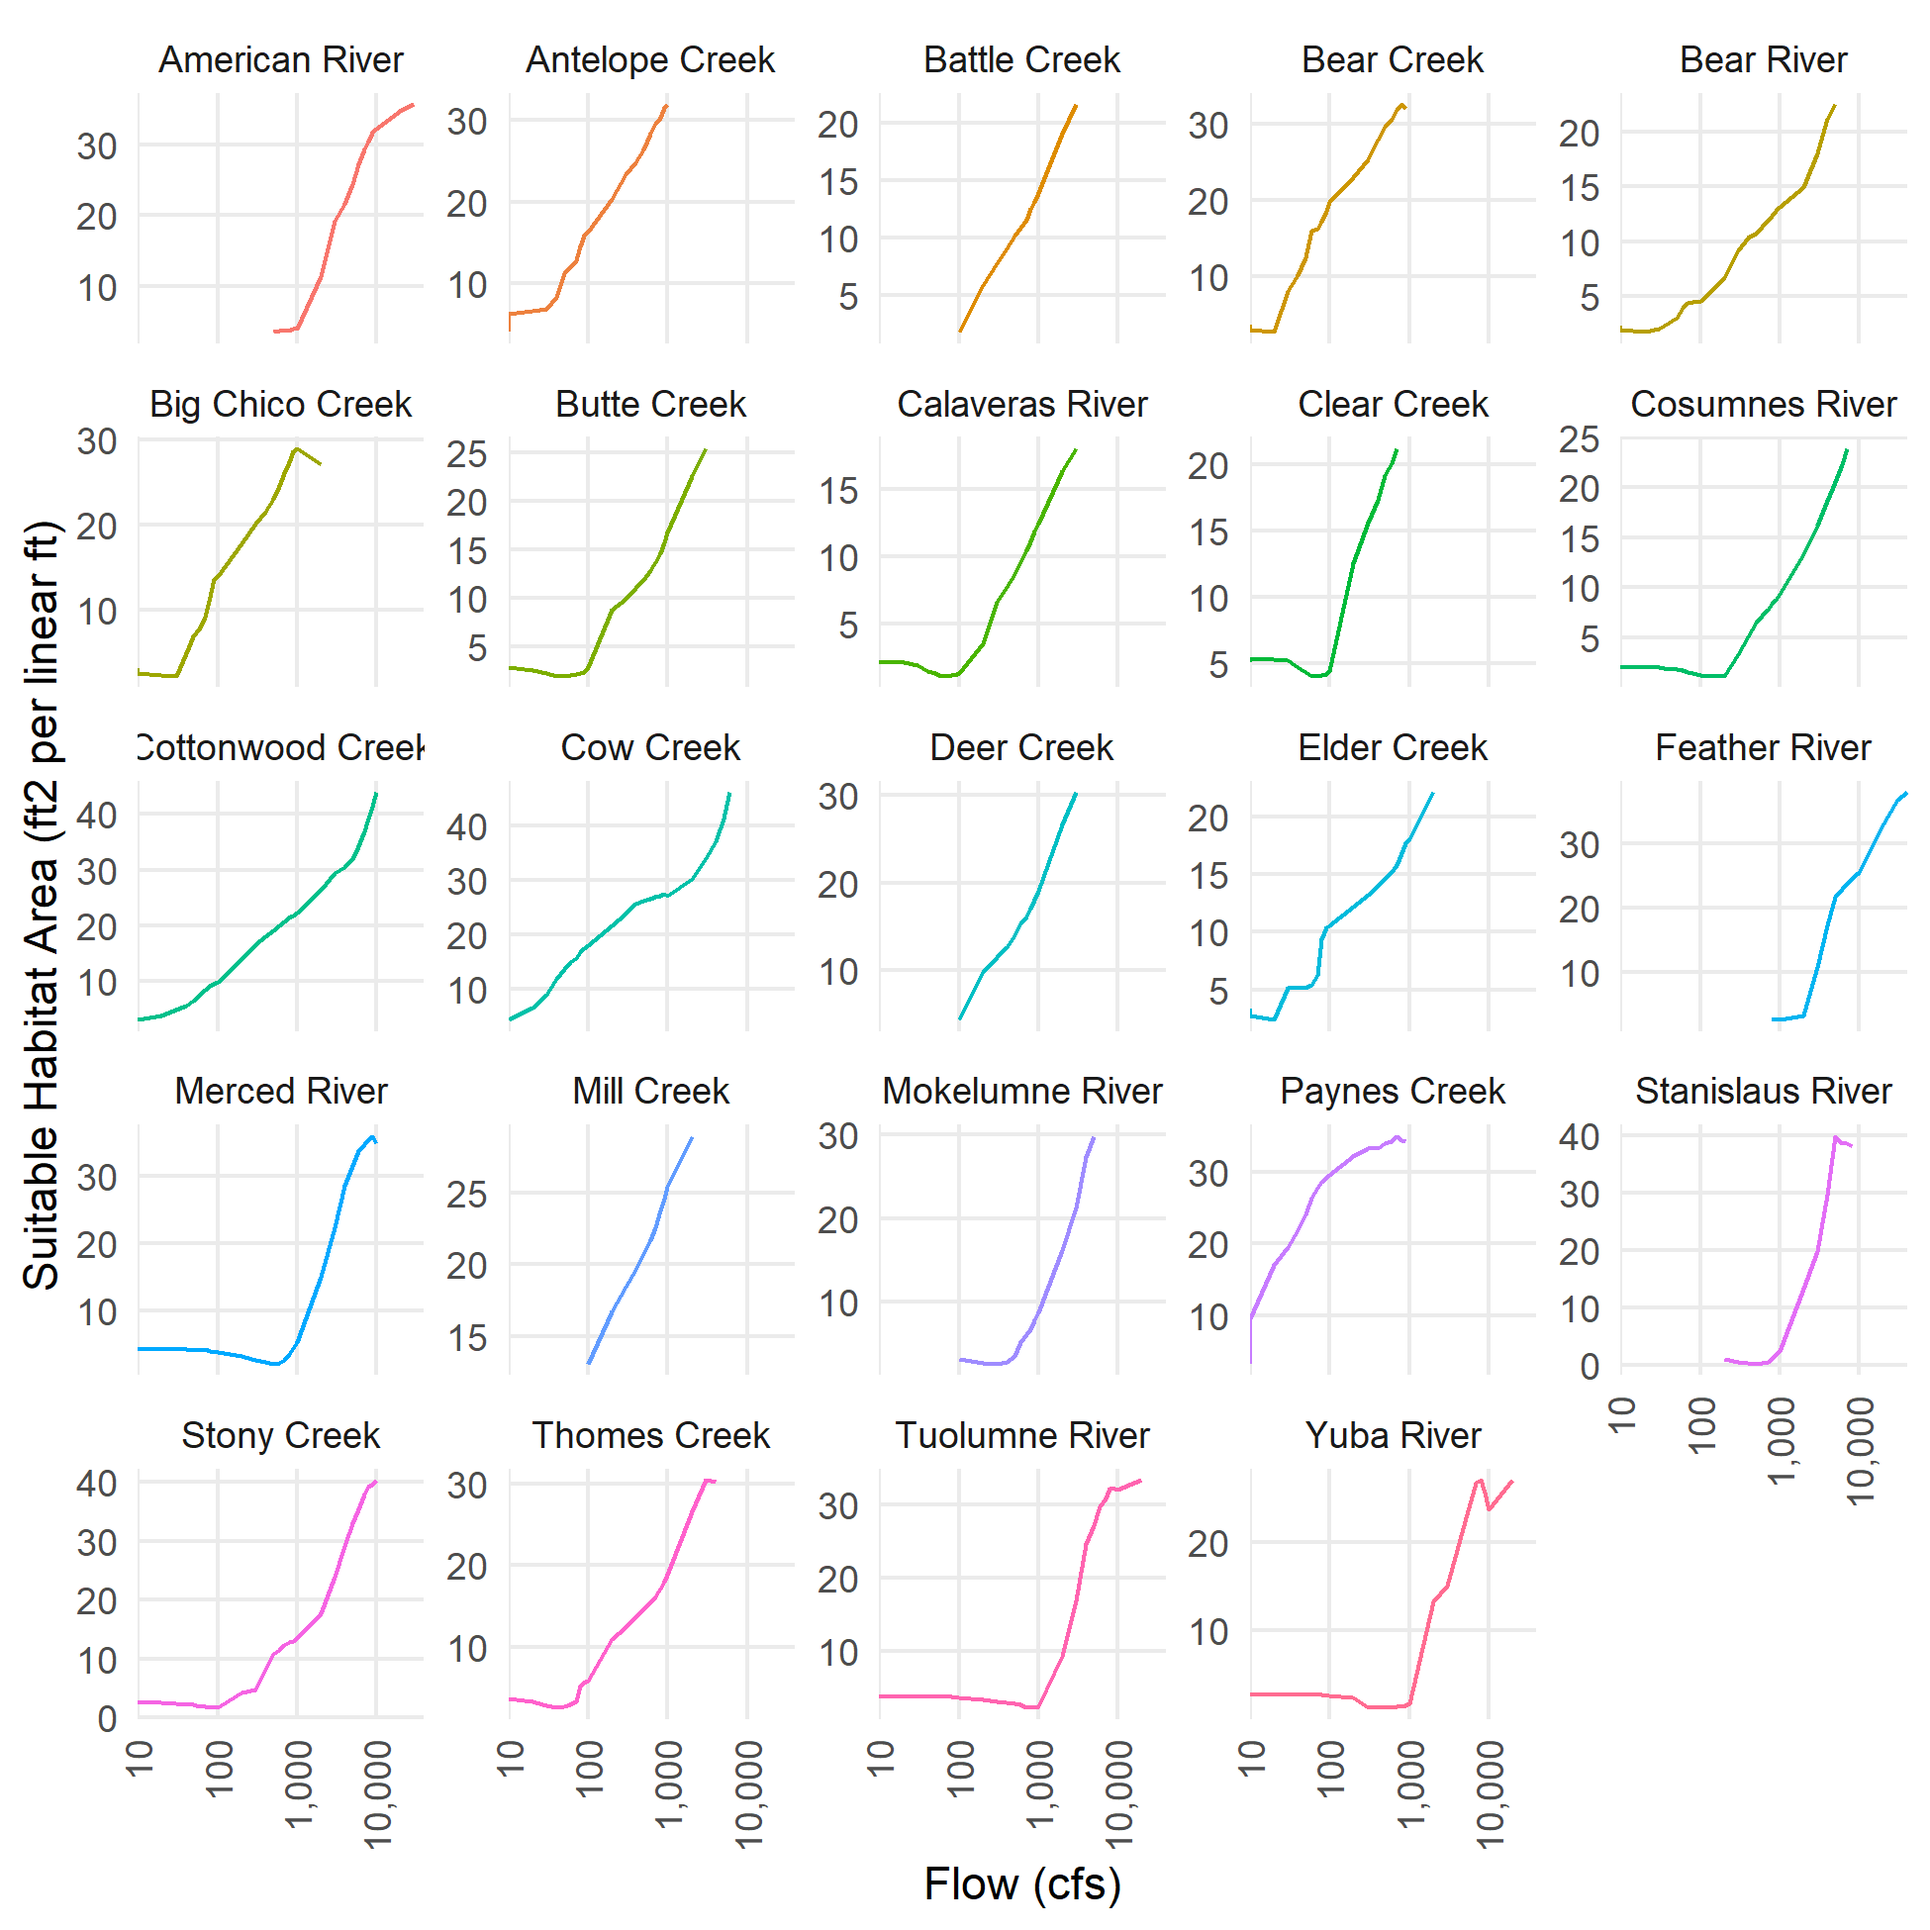
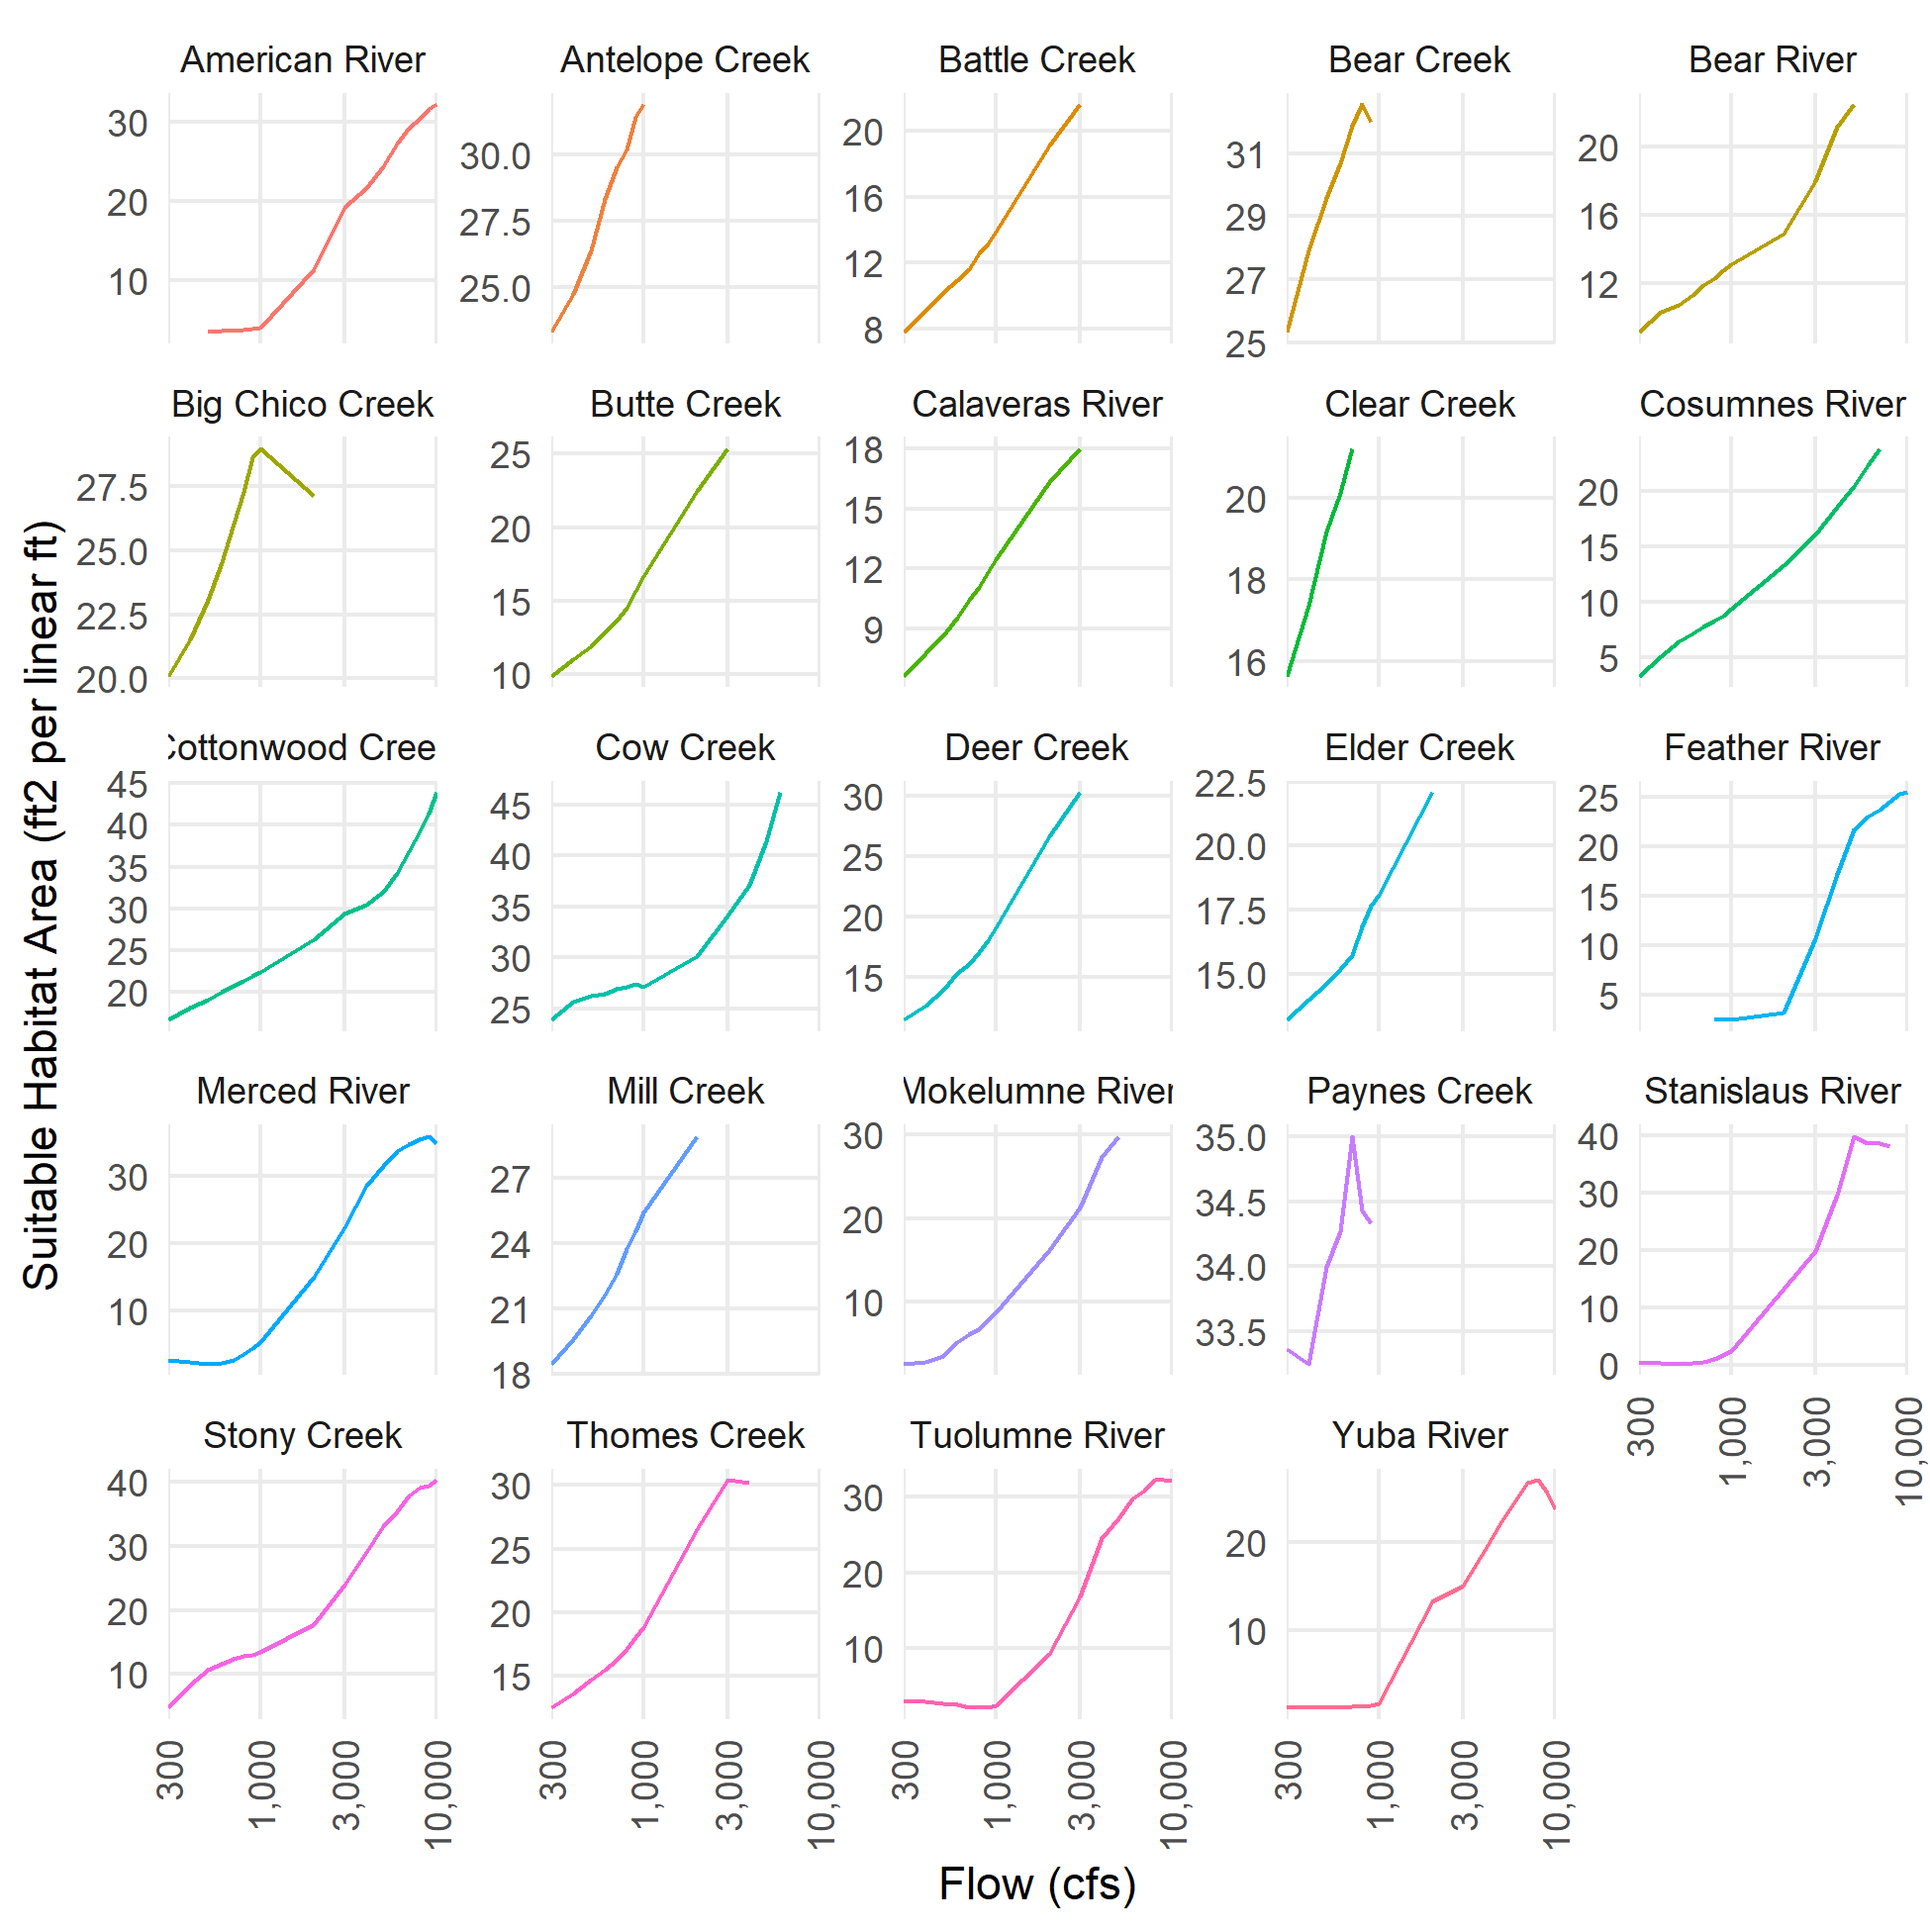
fix prediction ranges on graphs

diff --git a/data-raw/scripts/model-expl.md b/data-raw/scripts/model-expl.md
@@ -1,7 +1,7 @@
 Statistical Modeling to Predict Flow-to-Suitable-Area Curves
 ================
 [Skyler Lewis](mailto:slewis@flowwest.com)
-2024-04-25
+2024-05-07
 
 - [Import and Preprocess Training
   Data](#import-and-preprocess-training-data)
@@ -1900,10 +1900,11 @@ prediction_flows <- readRDS(here::here("data-raw", "results", "watershed_flow_su
   mutate(flow_cfs = map2(min_cfs, max_cfs, function(x, y) oom_range(x, y))) |>
   select(watershed, flow_cfs) |>
   unnest(flow_cfs) |>
+  filter(flow_cfs >= min(interp_flows) & flow_cfs <= max(interp_flows)) |>
   glimpse()
 ```
 
-    ## Rows: 587
+    ## Rows: 336
     ## Columns: 2
     ## $ watershed <chr> "American River", "American River", "American River", "Ameri…
     ## $ flow_cfs  <dbl> 500, 600, 700, 800, 900, 1000, 2000, 3000, 4000, 5000, 6000,…
@@ -2105,9 +2106,6 @@ pd_rf_by_mainstem |>
   scale_color_manual(values = palette_hqt_gradient_class)
 ```
 
-    ## Warning: Transformation introduced infinite values in continuous x-axis
-    ## Transformation introduced infinite values in continuous x-axis
-
 ![](model-expl_files/figure-gfm/dsmhabitat-sd-val-1.png)<!-- -->
 
 ``` r
@@ -2123,8 +2121,6 @@ pd_rf_by_mainstem_summary |>
   xlab("Flow (cfs)") + ylab("Total WUA (ac)")
 ```
 
-    ## Warning: Transformation introduced infinite values in continuous x-axis
-
 ![](model-expl_files/figure-gfm/dsmhabitat-sd-val-2.png)<!-- -->
 
 ``` r
@@ -2139,8 +2135,6 @@ pd_rf_by_mainstem_summary |>
         axis.text.x = element_text(angle = 90, vjust = 0.5, hjust=1)) +
   xlab("Flow (cfs)") + ylab("Suitable Habitat Area (ft2 per linear ft)")
 ```
-
-    ## Warning: Transformation introduced infinite values in continuous x-axis
 
 ![](model-expl_files/figure-gfm/dsmhabitat-sd-val-3.png)<!-- -->
 
@@ -2162,7 +2156,6 @@ pd_rf_by_mainstem_summary |>
 ```
 
     ## Warning: Transformation introduced infinite values in continuous x-axis
-    ## Transformation introduced infinite values in continuous x-axis
 
     ## Warning: Removed 25 rows containing missing values (`geom_line()`).
 
@@ -2185,12 +2178,31 @@ pd_rf_by_mainstem_summary |>
 ```
 
     ## Warning: Transformation introduced infinite values in continuous x-axis
+    ## Removed 25 rows containing missing values (`geom_line()`).
+
+![](model-expl_files/figure-gfm/dsmhabitat-sd-val-5.png)<!-- -->
+
+``` r
+pd_rf_by_mainstem_summary |> filter(flow_cfs>=min(interp_flows)) |>
+  ggplot() +
+  geom_line(aes(x = flow_cfs, y = tot_wua_ac, color="habistat prediction")) + 
+  geom_line(data=dsm_habitat_suitable_ac, aes(x = flow_cfs, y = value, color = name)) +  
+  facet_wrap(~river, scales="free_y") + 
+  scale_x_log10(labels=scales::comma_format(), expand=c(0,0), 
+                limits=c(min(interp_flows),max(interp_flows))) + 
+  scale_y_continuous(labels=scales::comma_format(), expand=c(0,0), limits=c(0,NA)) + 
+  theme(legend.position="top", legend.title=element_blank(),
+        panel.grid.minor = element_blank(),
+        axis.text.x = element_text(angle = 90, vjust = 0.5, hjust=1)) +
+  xlab("Flow (cfs)") + ylab("Total WUA (ac)") +
+  scale_color_manual(values = palette_dsmhabitat_comparison)
+```
 
     ## Warning: Transformation introduced infinite values in continuous x-axis
 
-    ## Warning: Removed 25 rows containing missing values (`geom_line()`).
+    ## Warning: Removed 26 rows containing missing values (`geom_line()`).
 
-![](model-expl_files/figure-gfm/dsmhabitat-sd-val-5.png)<!-- -->
+![](model-expl_files/figure-gfm/dsmhabitat-sd-val-6.png)<!-- -->
 
 ### One-step model, scale-independent: WUA/LF vs normalized flow
 
@@ -2252,9 +2264,6 @@ pd_rf_by_mainstem |>
   scale_color_manual(values = palette_hqt_gradient_class)
 ```
 
-    ## Warning: Transformation introduced infinite values in continuous x-axis
-    ## Transformation introduced infinite values in continuous x-axis
-
 ![](model-expl_files/figure-gfm/dsmhabitat-si2-val-1.png)<!-- -->
 
 ``` r
@@ -2270,8 +2279,6 @@ pd_rf_by_mainstem_summary |>
   xlab("Flow (cfs)") + ylab("Total WUA (ac)")
 ```
 
-    ## Warning: Transformation introduced infinite values in continuous x-axis
-
 ![](model-expl_files/figure-gfm/dsmhabitat-si2-val-2.png)<!-- -->
 
 ``` r
@@ -2286,8 +2293,6 @@ pd_rf_by_mainstem_summary |>
         axis.text.x = element_text(angle = 90, vjust = 0.5, hjust=1)) +
   xlab("Flow (cfs)") + ylab("Suitable Habitat Area (ft2 per linear ft)")
 ```
-
-    ## Warning: Transformation introduced infinite values in continuous x-axis
 
 ![](model-expl_files/figure-gfm/dsmhabitat-si2-val-3.png)<!-- -->
 
@@ -2309,7 +2314,6 @@ pd_rf_by_mainstem_summary |>
 ```
 
     ## Warning: Transformation introduced infinite values in continuous x-axis
-    ## Transformation introduced infinite values in continuous x-axis
 
     ## Warning: Removed 25 rows containing missing values (`geom_line()`).
 
@@ -2332,12 +2336,31 @@ pd_rf_by_mainstem_summary |>
 ```
 
     ## Warning: Transformation introduced infinite values in continuous x-axis
+    ## Removed 25 rows containing missing values (`geom_line()`).
+
+![](model-expl_files/figure-gfm/dsmhabitat-si2-val-5.png)<!-- -->
+
+``` r
+pd_rf_by_mainstem_summary |> filter(flow_cfs>=min(interp_flows)) |>
+  ggplot() +
+  geom_line(aes(x = flow_cfs, y = tot_wua_ac, color="habistat prediction")) + 
+  geom_line(data=dsm_habitat_suitable_ac, aes(x = flow_cfs, y = value, color = name)) +  
+  facet_wrap(~river, scales="free_y") + 
+  scale_x_log10(labels=scales::comma_format(), expand=c(0,0), 
+                limits=c(min(interp_flows),max(interp_flows))) + 
+  scale_y_continuous(labels=scales::comma_format(), expand=c(0,0), limits=c(0,NA)) + 
+  theme(legend.position="top", legend.title=element_blank(),
+        panel.grid.minor = element_blank(),
+        axis.text.x = element_text(angle = 90, vjust = 0.5, hjust=1)) +
+  xlab("Flow (cfs)") + ylab("Total WUA (ac)") +
+  scale_color_manual(values = palette_dsmhabitat_comparison)
+```
 
     ## Warning: Transformation introduced infinite values in continuous x-axis
 
-    ## Warning: Removed 25 rows containing missing values (`geom_line()`).
+    ## Warning: Removed 26 rows containing missing values (`geom_line()`).
 
-![](model-expl_files/figure-gfm/dsmhabitat-si2-val-5.png)<!-- -->
+![](model-expl_files/figure-gfm/dsmhabitat-si2-val-6.png)<!-- -->
 
 ### Two-step model: (%HSI vs normalized flow) \* (Total Area/LF vs flow)
 
@@ -2421,9 +2444,6 @@ pd_rf_by_mainstem |>
   scale_color_manual(values = palette_hqt_gradient_class)
 ```
 
-    ## Warning: Transformation introduced infinite values in continuous x-axis
-    ## Transformation introduced infinite values in continuous x-axis
-
 ![](model-expl_files/figure-gfm/dsmhabitat-si-val-1.png)<!-- -->
 
 ``` r
@@ -2439,8 +2459,6 @@ pd_rf_by_mainstem_summary |>
   xlab("Flow (cfs)") + ylab("Total WUA (ac)")
 ```
 
-    ## Warning: Transformation introduced infinite values in continuous x-axis
-
 ![](model-expl_files/figure-gfm/dsmhabitat-si-val-2.png)<!-- -->
 
 ``` r
@@ -2455,8 +2473,6 @@ pd_rf_by_mainstem_summary |>
         axis.text.x = element_text(angle = 90, vjust = 0.5, hjust=1)) +
   xlab("Flow (cfs)") + ylab("Suitable Habitat Area (ft2 per linear ft)")
 ```
-
-    ## Warning: Transformation introduced infinite values in continuous x-axis
 
 ![](model-expl_files/figure-gfm/dsmhabitat-si-val-3.png)<!-- -->
 
@@ -2478,7 +2494,6 @@ pd_rf_by_mainstem_summary |>
 ```
 
     ## Warning: Transformation introduced infinite values in continuous x-axis
-    ## Transformation introduced infinite values in continuous x-axis
 
     ## Warning: Removed 25 rows containing missing values (`geom_line()`).
 
@@ -2501,12 +2516,31 @@ pd_rf_by_mainstem_summary |>
 ```
 
     ## Warning: Transformation introduced infinite values in continuous x-axis
+    ## Removed 25 rows containing missing values (`geom_line()`).
+
+![](model-expl_files/figure-gfm/dsmhabitat-si-val-5.png)<!-- -->
+
+``` r
+pd_rf_by_mainstem_summary |> filter(flow_cfs>=min(interp_flows)) |>
+  ggplot() +
+  geom_line(aes(x = flow_cfs, y = tot_wua_ac, color="habistat prediction")) + 
+  geom_line(data=dsm_habitat_suitable_ac, aes(x = flow_cfs, y = value, color = name)) +  
+  facet_wrap(~river, scales="free_y") + 
+  scale_x_log10(labels=scales::comma_format(), expand=c(0,0), 
+                limits=c(min(interp_flows),max(interp_flows))) + 
+  scale_y_continuous(labels=scales::comma_format(), expand=c(0,0), limits=c(0,NA)) + 
+  theme(legend.position="top", legend.title=element_blank(),
+        panel.grid.minor = element_blank(),
+        axis.text.x = element_text(angle = 90, vjust = 0.5, hjust=1)) +
+  xlab("Flow (cfs)") + ylab("Total WUA (ac)") +
+  scale_color_manual(values = palette_dsmhabitat_comparison)
+```
 
     ## Warning: Transformation introduced infinite values in continuous x-axis
 
-    ## Warning: Removed 25 rows containing missing values (`geom_line()`).
+    ## Warning: Removed 26 rows containing missing values (`geom_line()`).
 
-![](model-expl_files/figure-gfm/dsmhabitat-si-val-5.png)<!-- -->
+![](model-expl_files/figure-gfm/dsmhabitat-si-val-6.png)<!-- -->
 
 ## Results Export
 
@@ -2698,9 +2732,29 @@ yuba_wua_predicted_temporal_summary <-
     ## `.groups` argument.
 
 ``` r
+yuba_wua_predicted_temporal_ts <-
+  readRDS(here::here("data-raw", "results", "durhsi_applied_to_comid_ts.Rds")) |>
+  ungroup() |>
+    filter(river == "Lower Yuba River") |>
+  filter(water_year %in% unique(lyr_cbec_temporal$water_year)) |>
+  select(comid, water_year, flow_cfs = q, durwua, date) |>
+  inner_join(flowline_attributes |> transmute(comid, length_ft = reach_length_km*3280.84), by=join_by(comid))
+
+yuba_wua_predicted_temporal_ts_summary <- 
+  yuba_wua_predicted_temporal_ts |> 
+  group_by(flow_cfs, water_year, date) |>
+  summarize(durwua = sum(durwua * length_ft) / sum(length_ft))
+```
+
+    ## `summarise()` has grouped output by 'flow_cfs', 'water_year'. You can override
+    ## using the `.groups` argument.
+
+``` r
 ggplot() + 
   geom_point(data = lyr_cbec_temporal_summary,
             aes(x = flow_cfs, y = wua_ft2_per_lf, color = "CBEC Study (LYR SRH2D)"), size = 0.7, stroke = 0) +
+#    geom_point(data = yuba_wua_predicted_temporal_ts_summary,
+#            aes(x = flow_cfs, y = durwua, color = "Habistat Model 1"), size = 0.7, stroke = 0) +
   geom_line(data = lyr_cbec_nontemporal_summary,
             aes(x = flow_cfs, y = wua_ft2_per_lf, color = "CBEC Study (LYR SRH2D)", linetype = "Non-temporal", linewidth = "Non-temporal")) +
   geom_line(data = yuba_wua_predicted_temporal_summary,
